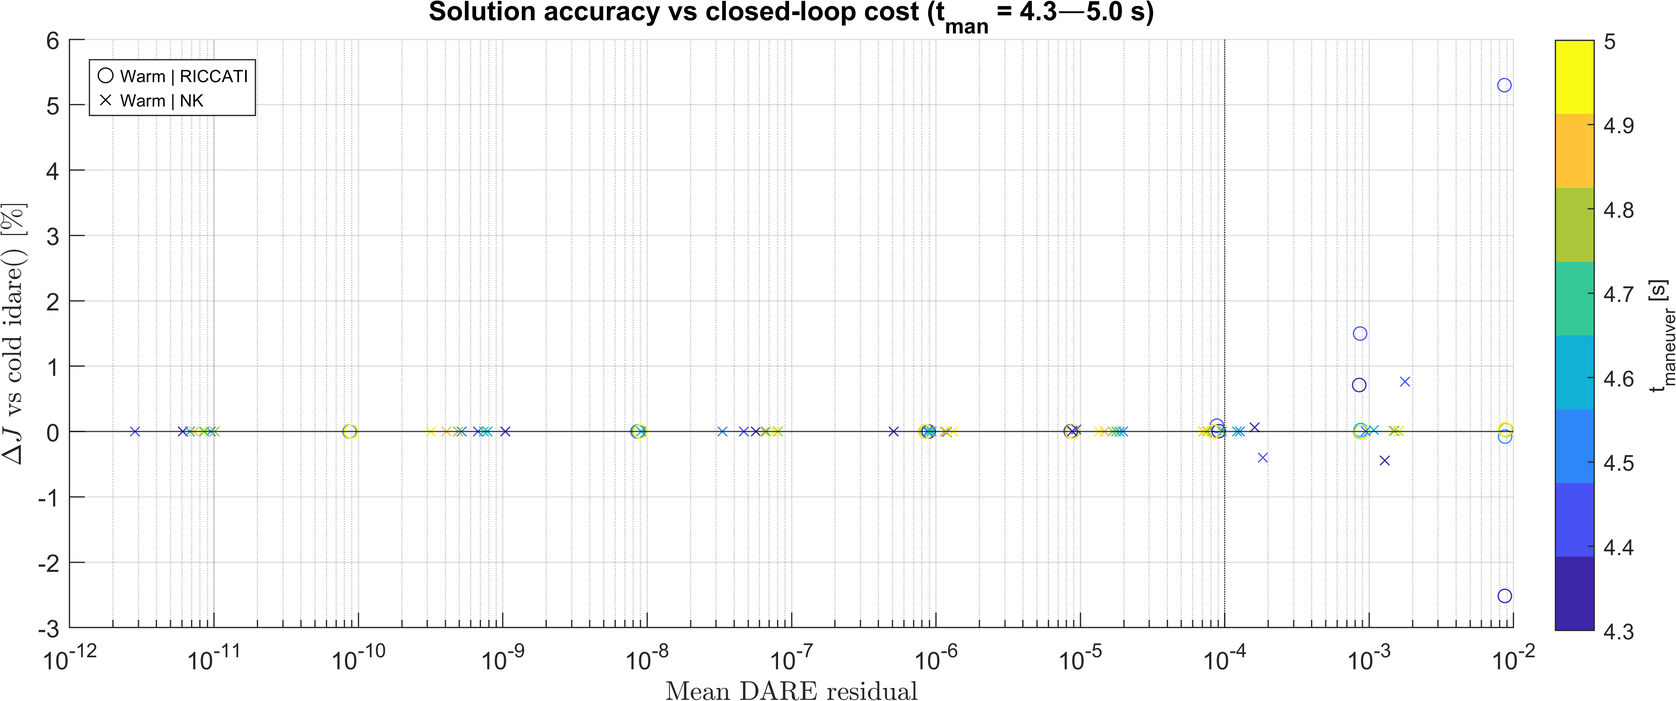
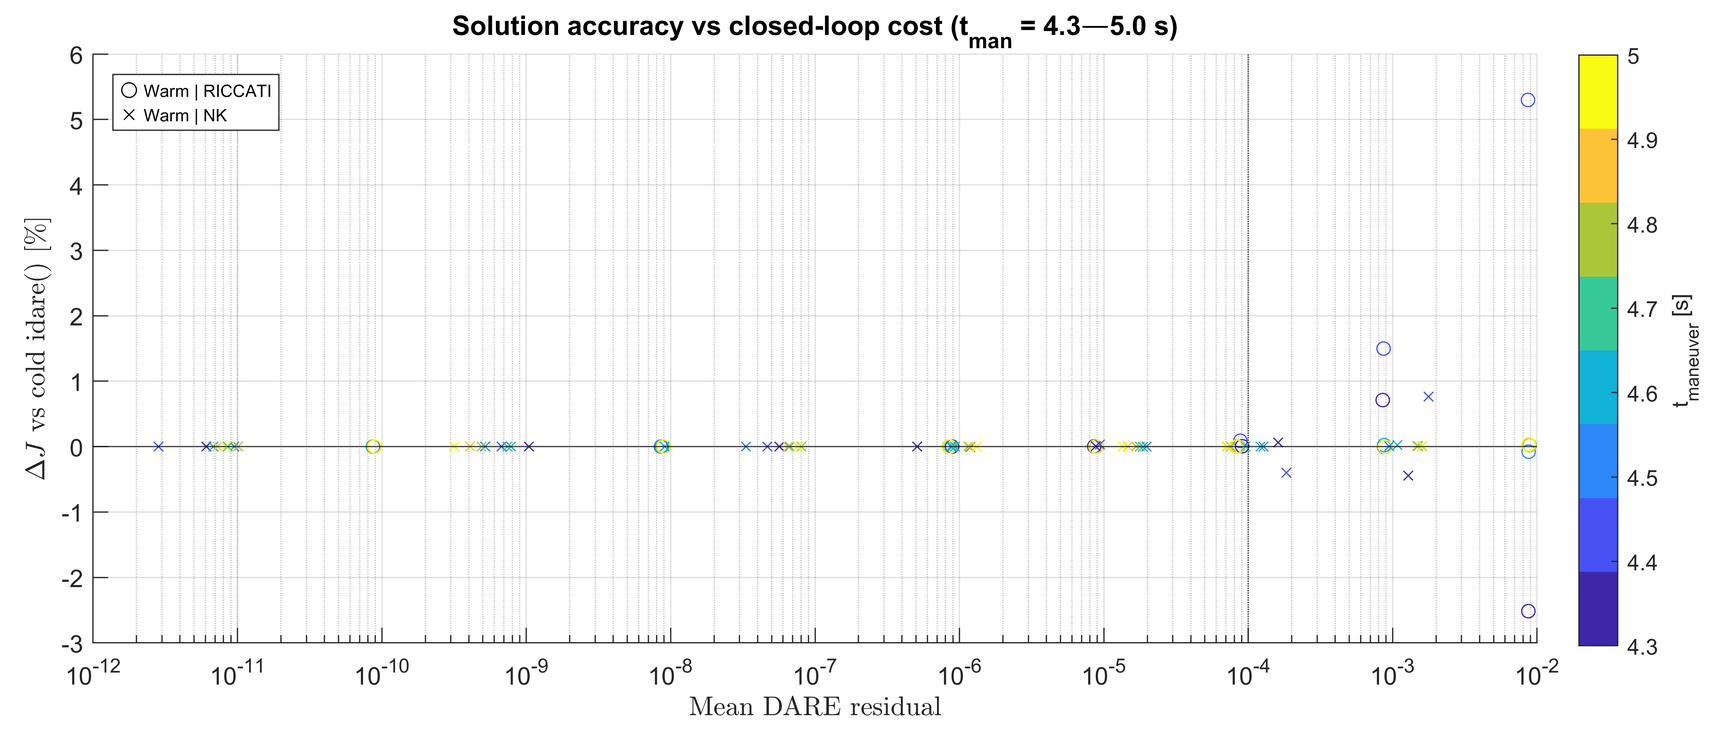
Fix Latex rendering, border imgs

diff --git a/docs/eval01/README.md b/docs/eval01/README.md
@@ -41,6 +41,8 @@ NK iteration has one critical weakness however: the warm start seed $K_0$ must y
 
 > **Note:** the threshold is specific to this system and cost matrices, since we're using the un-normalised DARE residual as the metric. The analysis may be repeated later using the normalised DARE residual computation; this yields more general results, independent of Q,R, and largely the closed-loop matrix too. The scope of this analysis restricts analysis to the unnormalised residuals however; residual monitoring with full normalisation is unnecessary here and adds extra compute on each Lyapunov iteration – quickly adds up, preferably avoided on a microcontroller.
 
+> **Note:** the benchmarks herein used MATLAB's built-in `idare` and `dlyap`. The current codebase replaces these with `dare_sda` and `dlyap_sda` – faster, but absolute timings will differ.
+
 <br>
 
 # Warm-started DARE solves: full version
@@ -48,7 +50,7 @@ NK iteration has one critical weakness however: the warm start seed $K_0$ must y
 The SDDRE controller (`compute_u_SDDRE_v3`) solves a discrete algebraic Riccati equation (DARE) at every control step: the SDC matrices $A(x_k)$, $B(u_{k-1})$ change with the state, so $P_{ss}$ and the feedback gain $K_{ss}$ must be recomputed continuously. This solve is a dominant compute cost of the controller, and its properties – speed, timing consistency, failure behaviour – largely determine whether the whole method is viable for embedded real-time deployment. This document benchmarks the solver strategies implemented in `iterative_dare.m` and explains the design choices that resulted.
 
 The key structural observation: in general, consecutive SDC models differ only slightly, so the previous step's solution $P_{k-1}$ is an excellent initial guess for the current DARE. 
-This admits *warm-starting* – a property a general interior-point QP or NLP solver does not share – and the design question becomes which iterative scheme to use (Riccati, NK), and which design parameters (MinIters, MaxIters, acceptable tolerance) are optimal for a given use case.
+This admits *warm-starting* – a property a general interior-point QP or NLP solver does not share – and the design question becomes which iterative scheme to use (Riccati, NK), and which design parameters (MinIters, MaxIters, acceptable tolerance) are appropriate for a given use case.
 
 It's a sharper answer than it first appears; NK and Riccati benefit from their warm-start seeds very differently, as we'll see throughout the rest of the analysis.
 
@@ -60,41 +62,43 @@ It's a sharper answer than it first appears; NK and Riccati benefit from their w
 | Riccati iteration (warm) | One sweep of the DARE map (a few matrix products) | Linear | Global (seed from any PSD $P_0$) |
 | Newton–Kleinman (warm) | One discrete Lyapunov solve (`dlyap`) | Quadratic | Local (the seed $A-BK_0$ must be stabilising) |
 
-- One `dlyap` costs roughly 25 Riccati sweeps in wall time. Equal-cost comparisons therefore pit NK-$n$ against Riccati-$25n$.
-- Each warm method is tested with fixed iteration counts (deterministic timing) and with an adaptive variant (iterate until the DARE residual passes a tolerance).
+- One `dlyap` costs roughly 25 Riccati sweeps in wall time. Equal-cost comparisons therefore pit NK-$`n`$ against Riccati-$`25n`$.
+- Each warm method is tested with fixed iteration counts (deterministic timing) and with an early-break variant (iterate until the DARE residual passes a tolerance).
 - Residual throughout is the unnormalised form:
-$$\|A_{cl}^{\top} P A_{cl} - P + Q + K^{\top} R K\|_F$$
- where $A_{cl} = A - BK$ and $K = (R + B^{\top}PB)^{-1}B^{\top}PA$.
+
+$$ \||A_{cl}^{\top} P A_{cl} - P + Q + K^{\top} R K\||_F $$
+
+where $A_{cl} = A - BK$ and $K = (R + B^{\top}PB)^{-1}B^{\top}PA$.
 
 ## 1. Iterative solvers: how accurate does the DARE solve need to be?
 
 Solving via MATLAB's `idare` yields a DARE residual of ~1e-11; for our `iterative_dare` solver, we choose a threshold of 1e-4, showing that early termination with this threshold does not tangibly degrade tracking performance.
 
-First: with iterative solvers, it's certainly possible to target a similar accuracy of ~1e-11 — such benchmarks are also included later in section 3. However, it's largely unnecessary: optimal tracking performance does not depend on the DARE residual being minimised to machine precision. Early termination at an appropriate $\mathrm{dare\_residual}$ threshold enables lower compute requirements, and – with an appropriately chosen threshold – with no practical impact on tracking performance; fully solving the DARE to completion is not necessary.
+First: with iterative solvers, it's certainly possible to target a similar accuracy of ~1e-11 — such benchmarks are also included later in section 3. However, it's largely unnecessary: optimal tracking performance does not depend on the DARE residual being minimised to machine precision. Early termination at an appropriate $\mathrm{dare\_residual}$ threshold enables lower compute requirements, and – with an appropriately chosen threshold – has no practical impact on tracking performance; fully solving the DARE to completion is not necessary.
 
 The question then is where to – justifiably – set the threshold. This section thus establishes the relationship between DARE solve accuracy and closed-loop tracking cost, enabling an informed choice of the $\mathrm{dare\_residual}$ threshold used for early breaking in `iterative_dare`. The results herein also carry some additional generality to contexts beyond this project – when compute is limited and some suboptimality must be accepted, this analysis lets you gauge the expected impact on performance.
 
 ---
 
 The graph below is the key result and was generated as follows:
-- We sweep $t_{maneuver}$ = $4.3$–$5.0$ s. This corresponds to the *stressed regime*.
+- We sweep $t_{maneuver}$ = $4.3–5.0$ s. This corresponds to the *stressed regime*.
 - For each $t_{maneuver}$, we complete a run with the controller in the loop, using either `nk` or `riccati` as the iterative solver. For each solver, we repeat this across several early break thresholds: $\mathrm{dare\_residual}$ below $10^p$, where $p\in[-10,-8,-6,-5,-4,-3,-2,-1]$.
 
->Note that we run this test in the *stressed regime*, $t_{maneuver} = 4.3$–$5.0$ s, since here the accuracy of the DARE solution is most crucial. Throughout the stressed regime, full state feedback needs to counter the (significant, unmodelled) actuator saturation. Below 4.3s, the maneuver is infeasible - using any DARE solver - due to the effects of actuator saturation (significant, unmodelled) overwhelming the feedback controller's capacity. In general, the Riccati solution $P_{ss}$ needs to be accurate for the feedforward terms to be reliable, the feedback gain $K_{ss}$ is fully determined by $P_{ss}$, so the choice of DARE solver tolerance is best evaluated under the stressed regime, as the effects of inaccuracies are best highlighted here; in general, a more lenient threshold and more suboptimal DARE solution is acceptable, however for informed robust design, we deliberately evaluate over this regime (conservative results) to ensure reliability over the full operating envelope – up to infeasible tracking.
+>Note that we run this test in the *stressed regime*, $t_{maneuver} = 4.3–5.0$ s, since here the accuracy of the DARE solution is most crucial. Throughout the stressed regime, full state feedback needs to counter the (significant, unmodelled) actuator saturation. Below 4.3s, the maneuver is infeasible – using any DARE solver – due to the effects of actuator saturation (significant, unmodelled) overwhelming the feedback controller's capacity. In general, the Riccati solution $P_{ss}$ needs to be accurate for the feedforward terms to be reliable, the feedback gain $K_{ss}$ is fully determined by $P_{ss}$, so the choice of DARE solver tolerance is best evaluated under the stressed regime, as the effects of inaccuracies are best highlighted here; in general, a more lenient threshold and more suboptimal DARE solution is acceptable, however for informed robust design, we deliberately evaluate over this regime (conservative results) to ensure reliability over the full operating envelope – up to infeasible tracking.
 
 Each point in the scatter plot below has (x,y) coordinates (mean_dare_residual_after_solve, measured_performance_impact).
 
-<figure align="center">
+<p align="center">
   <img src="img/eval01_dare_residual_fx_log2_fig1_log.png" width="1000">
-</figure>
+</p>
 
-*Figure 1a – DARE residual vs closed-loop cost discrepancy $|\Delta J|/J$ relative to the cold `idare` baseline.*
+*Figure 1a – DARE residual vs closed-loop cost discrepancy* $|\Delta J|/J$ *relative to the cold `idare` baseline.*
 
 From the figure we can see:
 
 - The relationship follows a power law over the full ten orders of magnitude: $|\Delta J|/J \approx c \cdot \mathrm{dare\_residual}^{\alpha}$ with $\alpha \approx 1\text{–}1.2$ (slightly superlinear).
 - NK and Riccati points fall on the same trend. Only the residual magnitude matters, not which method produced it.
-- Below residuals of ~$10^{-4}$, the tracking performance is near-optimal: bounded within 0.1% of the true optimum. Above this runs the risk of unacceptablly suboptimal tracking; at residuals ~$10^{-1}$, J is ~1% worse on average, but up to ~1000% worse (corresponding to the hexacopter losing closed loop stability / maneuver not completed), as evidenced by one outlier Riccati sample point at $t=4.4$ s.
+- Below residuals of $\approx 10^{-4}$, the tracking performance is near-optimal: bounded within 0.1% of the true optimum. Above this runs the risk of unacceptablly suboptimal tracking; at residuals $\approx 10^{-1}$, J is ~1% worse on average, but up to ~1000% worse (corresponding to the hexacopter losing closed loop stability / maneuver not completed), as evidenced by one outlier Riccati sample point at $t=4.4$ s.
 
 Numerically: worst-case cost discrepancy vs cold `idare`, over the stressed sweep ($t_{man}$ = 4.3–5.0 s):
 
@@ -123,25 +127,25 @@ This target, $\mathrm{dare\_residual}$ $\leq 10^{-4}$, is thus generally used as
 >
 > It's only observed in the *stressed regime* where actuator saturation occurs – an artifact that trends away as the trajectory and cost landscape match what the DARE solver is actually optimising for, as evidenced by the correlation with DARE solve tolerance. Nevertheless, an interesting artifact and worth noting. See below.
 
-<figure align="center">
+<p align="center">
   <img src="img/eval01_dare_residual_fx_log2_fig1_signs.png" width="800">
-</figure>
+</p>
 
 
 
 ## 2. Iterative solvers: fixed iteration schemes, versus residual-based
 
-<figure align="center">
+<p align="center">
   <img src="img/eval01_NK_iteration_fig1.png" width="700">
-</figure>
+</p>
 
-*Figure 2 – Sweep over maneuver duration $t_{man}$ at $T_s = 1/20$, quaternion SDC. Top: closed-loop cost. Middle: DARE solve time per step. Bottom: actuator demand – above ~100%, saturation acts as an unmodelled disturbance and the feedback gain becomes load-bearing.*
+*Figure 2 – Sweep over maneuver duration $`t_{man}`$ at $`T_s = 1/20`$, quaternion SDC. Top: closed-loop cost. Middle: DARE solve time per step. Bottom: actuator demand – above ~100%, saturation acts as an unmodelled disturbance and the feedback gain becomes load-bearing.*
 
 In Figure 2, the actuator demand panel (bottom) is the regime map: demand crossing 100% indicates where the severely-stressed regime begins. In the stressed regime, $t_{man} = 4.3$–$4.4$ s, actuators are saturating significantly (the maneuver becomes infeasible below 4.3 s) and here the warm-started DARE solver is stressed most.
 
 - In the benign regime, every solver variant – including NK with a single iteration – matches the cold `idare` cost exactly. The warm start is good enough that almost any amount of polishing suffices.
-- In the stressed regime, the under-budgeted NK variants (1–2 iterations) detonate (that is, the cost explodes, corresponding to the hexacopter losing closed-loop stability) – the vertical spikes in the cost panel. This is the hard failure mode analysed below. NK with 3 iterations and both adaptive variants complete every run at baseline cost.
-- Solve time is where the variants actually separate: NK adaptive (early exit based on DARE residual meeting threshold) sits around 0.3 ms/step against ~1.25 ms for cold `idare`, with the Riccati variants in between. For these variants, the cost panel says suboptimal DARE accuracy is largely free, with the under-budgeted solvers completing the maneuver practically just as well – often indistinguishable $\Delta J$, and surviving the full operating envelope up to infeasibility – despite early termination.
+- In the stressed regime, the under-budgeted NK variants (1–2 iterations) detonate (that is, the cost explodes, corresponding to the hexacopter losing closed-loop stability) – the vertical spikes in the cost panel. This is the hard failure mode analysed below. NK with 3 iterations and both 'adaptive' variants (early breaking once DARE residual is below threshold) complete every run at baseline cost.
+- Solve time is where the variants actually separate: NK adaptive sits around 0.3 ms/step against ~1.25 ms for cold `idare`, with the Riccati variants in between. For these variants, the cost panel says suboptimal DARE accuracy is largely free, with the under-budgeted solvers completing the maneuver practically just as well – often indistinguishable $\Delta J$, and surviving the full operating envelope up to infeasibility – despite early termination.
 
 See below for the numerics (per solver, median compute time).
 
@@ -178,11 +182,11 @@ The two methods therefore fail differently. **Riccati iteration fails soft**: it
 
 But NK never fails from inside its basin; empirically, in this regime, a fixed budget of 3 NK iterations is what guarantees remaining inside the stability basin (further analysed across other regimes in Section 3). Further, the early-break variant is implicitly guarded: a diverging iterate cannot pass the residual check, so the solver keeps iterating toward recovery instead of committing a bad solution and detonating on subsequent iterations.
 
-An explicit guard for the fixed-budget variant is cheap: check $\rho(A - BK) < 1$ before the `dlyap` (a 12x12 eigendecomposition, tens of microseconds - or integrated as part of the solve itself in a custom Lyapunov solver), and fall back to a cold `idare` on failure – the worst-case per-step cost stays predictably bounded, and a guaranteed fresh solution is provided to restart the warm solver. This is only necessitated for NK (Riccati may benefit also, but that's outside of this analyis's scope).
+An explicit guard for the fixed-budget variant is cheap: check $\rho(A - BK) < 1$ before the `dlyap` (a 12x12 eigendecomposition, tens of microseconds – or integrated as part of the solve itself in a custom Lyapunov solver), and fall back to a cold `idare` on failure – the worst-case per-step cost stays predictably bounded, and a guaranteed fresh solution is provided to restart the warm solver. This is only necessitated for NK (Riccati may benefit also, but that's outside of this analyis's scope).
 
 The fallback itself admits two options: a cold `idare` solve, or a Riccati iteration from the warm-start $P_0$. A cold solve's compute profile is fully deterministic, but slowest; Riccati takes advantage of the warm start and thus sits somewhere in between NK and a cold solve, at the cost of variable timing. Note however that Riccati as a fallback is only viable at low loop rates (~50 Hz and below): its linear convergence rate, combined with closed-loop eigenvalues approaching the unit circle as $T_s \to 0$, make for a counterintuitive result; warm-started Riccati solves are *slower* than a cold solve via `idare` at 50 Hz and above (see Section 3). Thus at moderate-to-high rates, a cold solve is the only practical fallback.
 
-> The `idare` fallback route was disabled for the analysis herein, but it is included (with loud failure/warning when activated) in the code. A properly-configured iterative solver should not need this fallback - the default settings established hereafter are robust, and fallback is never activated even across the extreme regimes - however having this loud warning available during development, and cold solve fallback as a hard reliability guarantee in implementations, is worthwhile.
+> The `idare` fallback route was disabled for the analysis herein, but it is included (with loud failure/warning when activated) in the code. A properly-configured iterative solver should not need this fallback – the default settings established hereafter are robust, and fallback is never activated even across the extreme regimes – however having this loud warning available during development, and cold solve fallback as a hard reliability guarantee in implementations, is worthwhile.
 
 ## 3. Iterative solvers: scaling with sample rate
 
@@ -197,21 +201,21 @@ The figure below sweeps sample rate $T_s = 1/10$ to $1/200$ with the early-break
 
 Reporting both matters because the two methods have different error character: Riccati's iteration count sits tightly at whatever the tolerance demands, while NK's is bursty – occasional steps need noticeably more work than the mean suggests.
 
-<figure align="center">
+<p align="center">
   <img src="img/eval01_NK_iteration_Ts_sweep_log2_fig1_p95_1e4.png" width="700">
-</figure>
+</p>
 
-*Figure 3 – Iterations required to reach target DARE residual ($10^{-4}$) versus sample rate (log-log scale). Slope +1 reference indicates the expected growth rate for the Riccati iterative solver. Black horizontal lines mark the 1-4 iteration count band, the typical iteration bounds for NK across any regime.*
+*Figure 3 – Iterations required to reach target DARE residual ($`10^{-4}`$) versus sample rate (log-log scale). Slope +1 reference indicates the expected growth rate for the Riccati iterative solver. Black horizontal lines mark the 1-4 iteration count band, the typical iteration bounds for NK across any regime.*
 
 > NB: The analysis is restricted to $t_{maneuver} \geq 4.8$ s here, as opposed to earlier's analysis at 4.3s minimum: 4.8s is the fastest feasible time the maneuver can be completed with a sample rate of 10Hz (using any solver, including `idare`), and the compute trend is best illustrated across a wider range of sample rates that includes 10Hz as presented.
 
 
-Both methods receive better seeds at higher sample rates - the warm-start error scales with how far the state moves per step, roughly proportional to $T_s$. But the Riccati iteration's convergence rate is set by $\rho(A_{cl})^2$, and the discrete closed-loop poles approach the unit circle as $T_s \to 0$; thus as $T_s \to 0$ its per-iteration progress begins to collapse – the key reason for the linear-like scaling seen in Figure 3.
+Both methods receive better seeds at higher sample rates – the warm-start error scales with how far the state moves per step, roughly proportional to $T_s$. But the Riccati iteration's convergence rate is set by $\rho(A_{cl})^2$, and the discrete closed-loop poles approach the unit circle as $T_s \to 0$; thus as $T_s \to 0$ its per-iteration progress begins to collapse – the key reason for the linear-like scaling seen in Figure 3.
 
 NK, in contrast, benefits from both effects with no offsetting penalty: its convergence rate is set by the quality of the seed, not by the closed-loop contraction, so as $T_s \to 0$ the shrinking warm-start error feeds directly into quadratic convergence – a closer seed means near-immediate convergence. The two methods' costs therefore diverge exactly where it matters: **faster loop rates make Riccati more expensive and NK cheaper**. NK's safety improves with rate too: basin exit is driven by warm-start staleness, and staleness shrinks with $T_s$, so a fixed-but-low NK budget becomes safer with faster sampling.
 
 
-### 3.2: Compute versus $T_s$. Riccati and NK, early breaking with tol=[1e-4,1e-11].
+### 3.2: Compute versus $T_s$. Riccati and NK, early breaking with tol $\in\{10^{-4},10^{-11}\}$.
 Precise compute times are tabulated below. The table reports the median solve time, averaged across the maneuver runs – $\mathrm{t\_maneuver} \in [4.3, 4.4, 4.5, 4.6, 4.7, 5.0, 6.0, 8.0]$.
 
 Results are included for both:
@@ -232,15 +236,15 @@ Results are included for both:
 
 Figure 4 shows the full picture behind the iteration-count summary: cost, solve time, and achieved residual across the $t_{maneuver}$ sweep.
 
-<figure align="center">
+<p align="center">
   <img src="img/eval01_NK_iteration_Ts_sweep_log2_fig2_trimmed.png" width="900">
-</figure>
+</p>
 
-*Figure 4 – Full comparison at $T_s = 1/10, 1/20, 1/50, 1/100$ (columns): tracking cost (top), DARE solve time (middle), DARE residual (bottom). Early-break variants here run to tolerance $10^{-4}$ and $10^{-11}$. Fixed-iter variants (no residual checking) are run for 3 iters (NK) and 75 iters (Riccati).*
+*Figure 4 – Full comparison at $`T_s = 1/10, 1/20, 1/50, 1/100`$ (columns): tracking cost (top), DARE solve time (middle), DARE residual (bottom). Early-break variants here run to tolerance $`10^{-4}`$ and $`10^{-11}`$. Fixed-iter variants (no residual checking) are run for 3 iters (NK) and 75 iters (Riccati).*
 
-- **Top row (cost):** all solver variants lie on the same curve at every sample rate – consistent with Section 1, any solver reaching the $10^{-4}$ residual gives tracking indistinguishable from baseline. The interesting exception is $T_s = 1/10$: the feasibility floor moves from ~4.3 s to ~4.8–5 s for *all* solvers including cold `idare`. This is a sampling limit, not a solver failure - at 10 Hz the loop simply cannot react fast enough for the aggressive maneuvers (it needs to have enough bandwidth to overcome the unmodelled actuator saturation), regardless of how the DARE is solved: not just that the SDC matrices are changing too fast for an iterative (warm started) solver to remain feasible.
+- **Top row (cost):** all solver variants lie on the same curve at every sample rate – consistent with Section 1, any solver reaching the $10^{-4}$ residual gives tracking indistinguishable from baseline. The interesting exception is $T_s = 1/10$: the feasibility floor moves from ~4.3 s to ~4.8–5 s for *all* solvers including cold `idare`. This is a sampling limit, not a solver failure – at 10 Hz the loop simply cannot react fast enough for the aggressive maneuvers (it needs to have enough bandwidth to overcome the unmodelled actuator saturation), regardless of how the DARE is solved: not just that the SDC matrices are changing too fast for an iterative (warm started) solver to remain feasible.
 
-- **Middle row (solve time):** the scaling story of Figure 3 - here illustrated in compute time instead of iterations. The time required to iterate Riccati to tolerance climbs with sample rate, while the equivalent NK-to-tolerance statistic drifts down; by $T_s = 1/100$ the tight-tolerance Riccati variant is the most expensive line on the plot and NK adaptive the cheapest. Cold `idare` is flat around 1.3ms as expected – it does the same work regardless of rate.
+- **Middle row (solve time):** the scaling story of Figure 3 – here illustrated in compute time instead of iterations. The time required to iterate Riccati to tolerance climbs with sample rate, while the equivalent NK-to-tolerance statistic drifts down; by $T_s = 1/100$ the tight-tolerance Riccati variant is the most expensive line on the plot and NK adaptive the cheapest. Cold `idare` is flat around 1.3ms as expected – it does the same work regardless of rate.
 
 - **Bottom row (residual):** the adaptive variants land close to their requested tolerance, with NK overshooting further past it (quadratic steps overshoot; linear steps stop near the line). The fixed-budget variants drift with regime – visible as the sloped dashed lines – which is why residual-based tuning is the recommended control dial. Easily implemented via the early-break schemes; fixed iteration schemes without online residual checks are also possible however, they just require more careful design beforehand, considering the full operating envelope and setting the iteration count to ensure sufficient convergence across it.
 
@@ -250,8 +254,8 @@ Figure 4 shows the full picture behind the iteration-count summary: cost, solve 
 `compute_u_SDDRE_v3` defaults to **warm-started Newton–Kleinman with early break at residual $10^{-4}$, minimum 1 and maximum 10 iterations**:
 
 - The tolerance comes directly from Figure 1a and the analysis: $10^{-4}$ bounds the cost penalty near 0.01–0.1%, below measurement noise.
-- The minimum of 1 and maximum of 10 are generic defaults, grounding for these is the content herein. Slightly conservative but work well across regimes. Improvements possible when tailored - use the content here as a guide for understanding their effects + adjusting them with good insight/grounding/reasoning/basis.
+- The minimum of 1 and maximum of 10 are generic defaults, grounding for these is the content herein. Slightly conservative but work well across regimes. Improvements possible when tailored – use the content here as a guide for understanding their effects + adjusting them with good insight/grounding/reasoning/basis.
 - In practice the solver runs anywhere from ~0.30 ms/step, ~4× cheaper than cold `idare`, and the residual check doubles as a divergence guard.
 - Riccati iteration is retained but not recommended in general: its global convergence properties are strong, and advantageous in the edge cases, however it is never simultaneously as fast and as accurate as NK, and its cost per tolerance grows with sample rate. NK *favours* higher sample rates, and for the lower sampling rates, iterations with a minimum bound of 3 is sufficient to keep NK within its stability basin even in the extreme cases.
-- Cold `idare` remains the bootstrap (first step), and retained as a backup - with loud warnings - in case the iterative solver fails, which can happen when solver parameters are adjusted in error and so forth.
+- Cold `idare` remains the bootstrap (first step), and retained as a backup – with loud warnings – in case the iterative solver fails, which can happen when solver parameters are adjusted in error and so forth.
 
